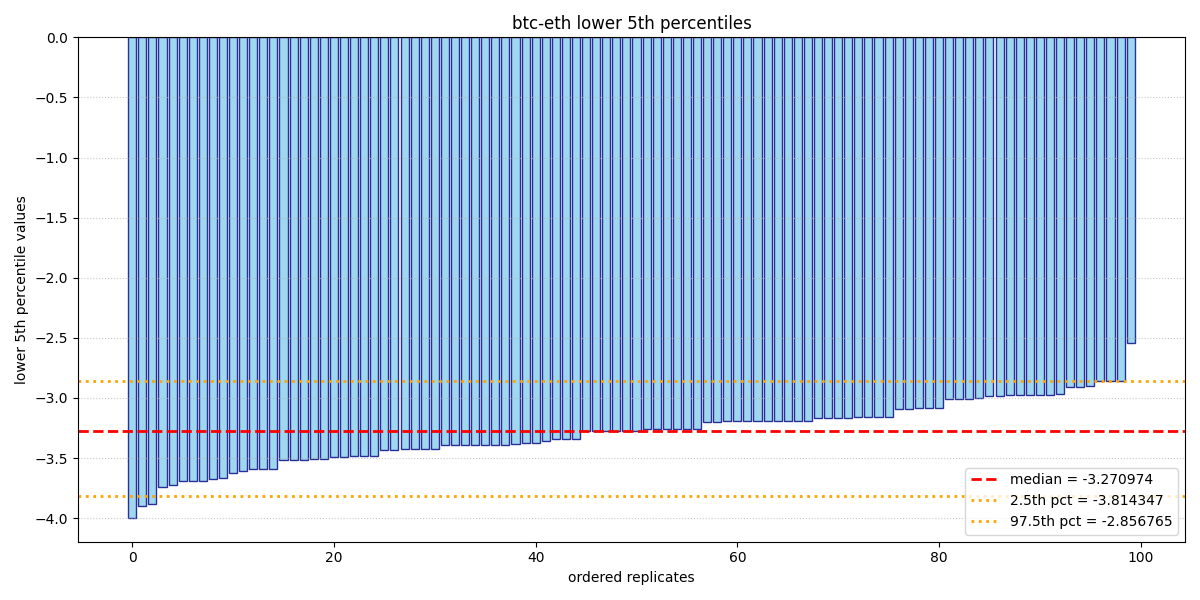
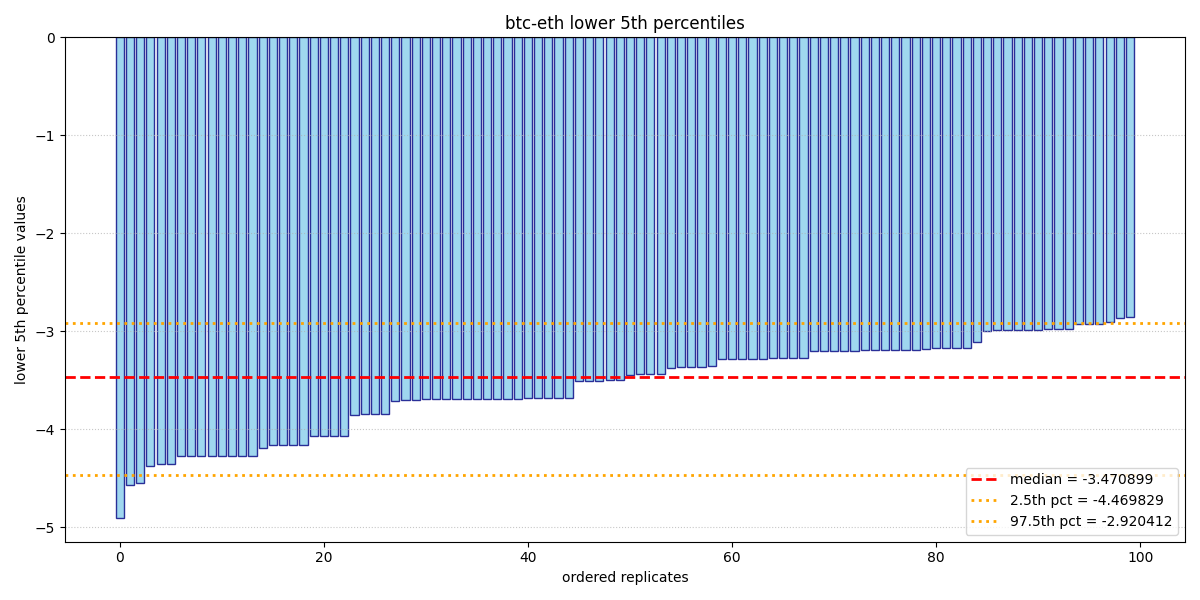
getting day data

diff --git a/src/v2/dayData.py b/src/v2/dayData.py
@@ -18,7 +18,7 @@ class DayDataProcessor:
 
     def __init__(self, input_file='btc_eth_prices_kst_10am_10pm_2years.csv'):
         self.input_file = input_file
-        self.output_file = 'btc_eth_daily_paired.csv'
+        self.output_file = 'btc_eth_day_paired.csv'
 
     def load_data(self):
         """Load CSV and prepare data."""

diff --git a/src/getStats.py b/src/getStats.py
@@ -39,4 +39,4 @@ def get_stats(asset1: str, asset2: str) -> None:
 
 
 if __name__ == '__main__':
-    get_stats('eth', 'tao')
+    get_stats('btc', 'eth')
